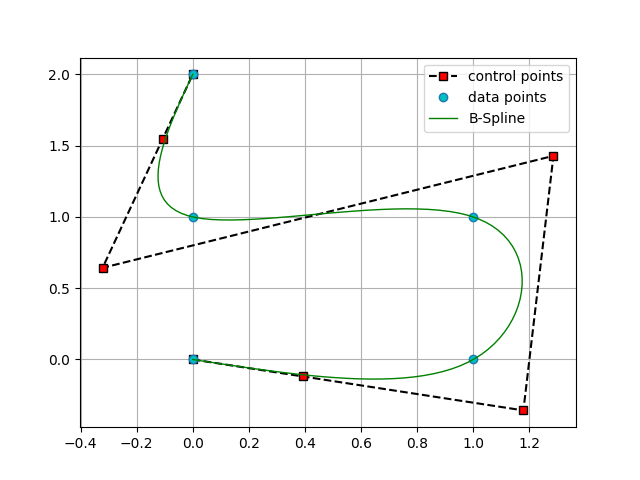
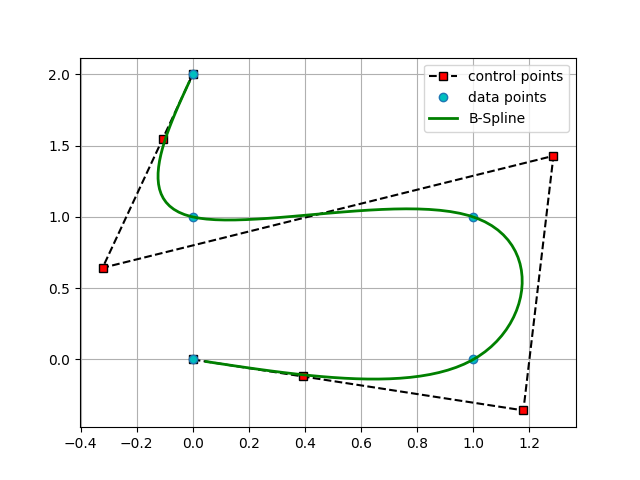
update results

diff --git a/plot.py b/plot.py
@@ -2,7 +2,6 @@ import os
 import numpy as np
 import matplotlib.pyplot as plt
 from src.cubicBSpline import bspline
-from scipy.interpolate import BSpline
 from src.utils import read_in_txt, read_out_txt
 from config import IN_FILENAME, OUT_FILENAME, RESULT_PATH
 
@@ -13,10 +12,7 @@ def plot():
     degree, cnt_num, knots_list, \
     control_points_x, control_points_y = read_out_txt(OUT_FILENAME)
 
-    xx = np.linspace(0, 1, 100)
-
-    spl_x = BSpline(knots_list, control_points_x, degree)
-    spl_y = BSpline(knots_list, control_points_y, degree)
+    xx = np.linspace(0.01, 0.99, 100)
 
     fig, ax = plt.subplots()
     x = [bspline(x, knots_list, control_points_x , degree) for x in xx]
@@ -24,8 +20,7 @@ def plot():
 
     ax.plot(control_points_x, control_points_y, 'k--', marker='s',markerfacecolor='r', label='control points')
     ax.plot(data_points_x, data_points_y, ' ', marker='o', markerfacecolor='c', label='data points')
-    #ax.plot(x, y, 'b-', lw=2, label='B-Spline')
-    ax.plot(spl_x(xx), spl_y(xx), 'g-', lw=1, label='B-Spline')
+    ax.plot(x, y, 'g-', lw=2, label='B-Spline')
     ax.grid(True)
     ax.legend(loc='best')
     plt.savefig(os.path.join(RESULT_PATH, OUT_FILENAME[0:-4]+'png'))

diff --git a/README.md b/README.md
@@ -42,7 +42,7 @@ where “3” represents the degree of the B-spline curve, “cnt_num” is the 
 # Visualization
 To plot the interpolating curve, choose the output filename in ```config.py``` and run 
 the following command in the terminal:
-```angular2
+```
 python plot.py 
 ```
 The interpolating curves of the two example data points
